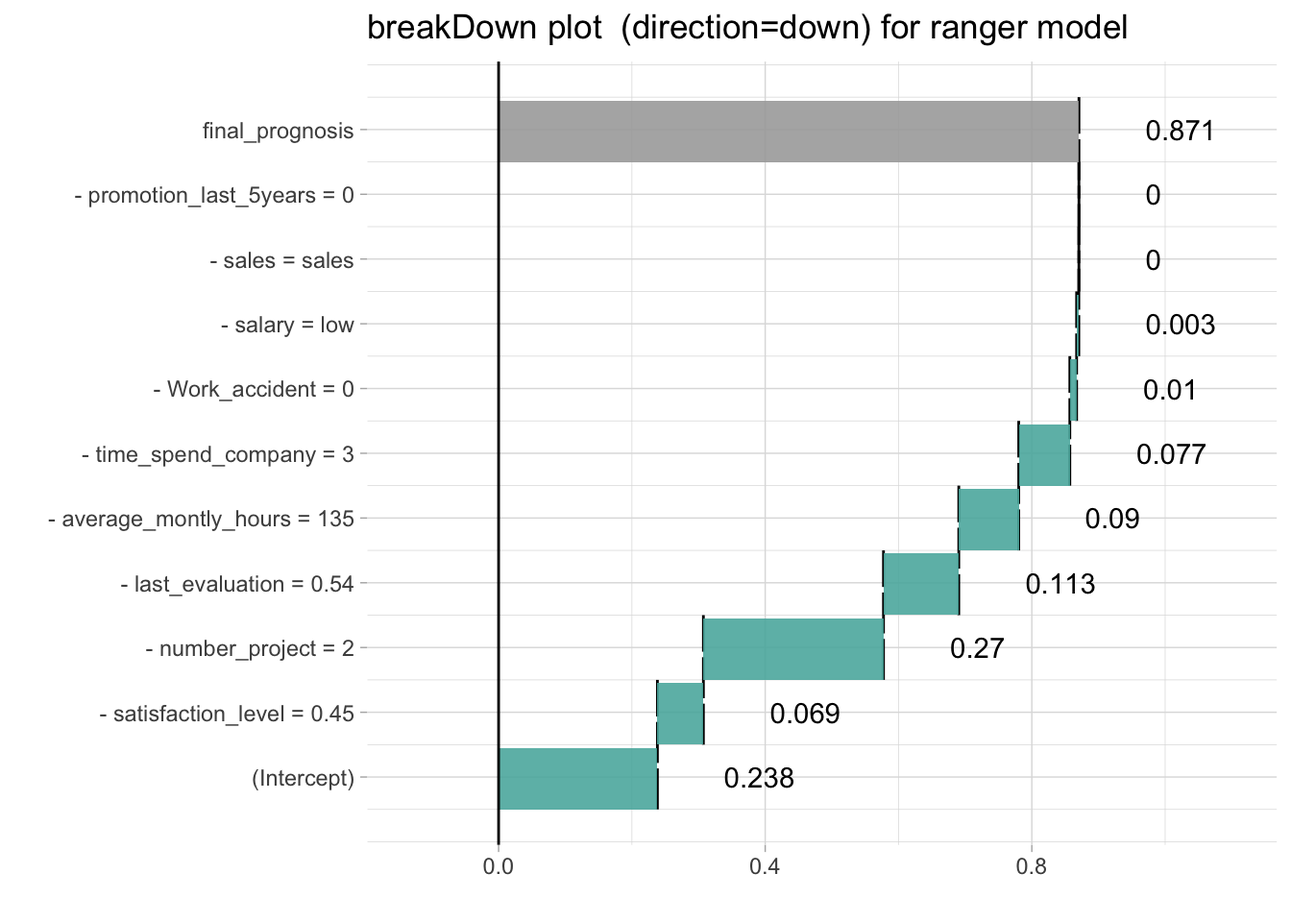
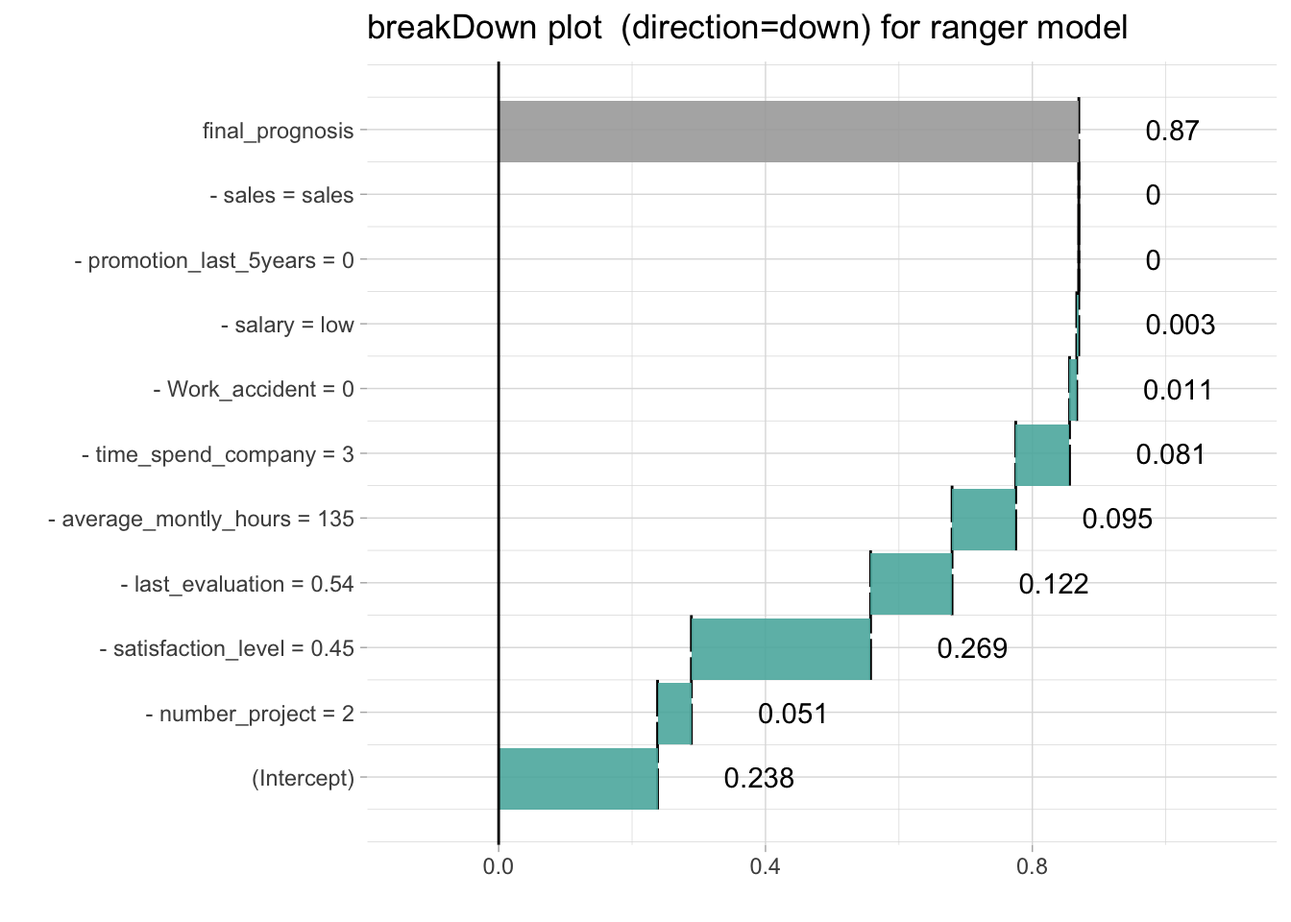
updated website and documentation

diff --git a/docs/articles/break_ranger.html b/docs/articles/break_ranger.html
@@ -88,7 +88,7 @@
       <h1>model agnostic breakDown plots for ranger</h1>
                         <h4 class="author">Przemyslaw Biecek</h4>
             
-            <h4 class="date">2018-03-25</h4>
+            <h4 class="date">2018-04-06</h4>
           </div>
 
     
@@ -115,7 +115,7 @@
 <a class="sourceLine" id="cb2-6" data-line-number="6"></a>
 <a class="sourceLine" id="cb2-7" data-line-number="7"><span class="kw">predict.function</span>(model, HR_data[<span class="dv">11</span>,])</a>
 <a class="sourceLine" id="cb2-8" data-line-number="8"><span class="co">#&gt;         1 </span></a>
-<a class="sourceLine" id="cb2-9" data-line-number="9"><span class="co">#&gt; 0.8706997</span></a></code></pre></div>
+<a class="sourceLine" id="cb2-9" data-line-number="9"><span class="co">#&gt; 0.8696505</span></a></code></pre></div>
 <p>But how to understand which factors drive predictions for a single observation?</p>
 <p>With the <code>breakDown</code> package!</p>
 <p>Explanations for the trees votings.</p>
@@ -127,16 +127,16 @@
 <a class="sourceLine" id="cb3-6" data-line-number="6">explain_<span class="dv">1</span></a>
 <a class="sourceLine" id="cb3-7" data-line-number="7"><span class="co">#&gt;                              contribution</span></a>
 <a class="sourceLine" id="cb3-8" data-line-number="8"><span class="co">#&gt; (Intercept)                         0.238</span></a>
-<a class="sourceLine" id="cb3-9" data-line-number="9"><span class="co">#&gt; - satisfaction_level = 0.45         0.069</span></a>
-<a class="sourceLine" id="cb3-10" data-line-number="10"><span class="co">#&gt; - number_project = 2                0.270</span></a>
-<a class="sourceLine" id="cb3-11" data-line-number="11"><span class="co">#&gt; - last_evaluation = 0.54            0.113</span></a>
-<a class="sourceLine" id="cb3-12" data-line-number="12"><span class="co">#&gt; - average_montly_hours = 135        0.090</span></a>
-<a class="sourceLine" id="cb3-13" data-line-number="13"><span class="co">#&gt; - time_spend_company = 3            0.077</span></a>
-<a class="sourceLine" id="cb3-14" data-line-number="14"><span class="co">#&gt; - Work_accident = 0                 0.010</span></a>
+<a class="sourceLine" id="cb3-9" data-line-number="9"><span class="co">#&gt; - number_project = 2                0.051</span></a>
+<a class="sourceLine" id="cb3-10" data-line-number="10"><span class="co">#&gt; - satisfaction_level = 0.45         0.269</span></a>
+<a class="sourceLine" id="cb3-11" data-line-number="11"><span class="co">#&gt; - last_evaluation = 0.54            0.122</span></a>
+<a class="sourceLine" id="cb3-12" data-line-number="12"><span class="co">#&gt; - average_montly_hours = 135        0.095</span></a>
+<a class="sourceLine" id="cb3-13" data-line-number="13"><span class="co">#&gt; - time_spend_company = 3            0.081</span></a>
+<a class="sourceLine" id="cb3-14" data-line-number="14"><span class="co">#&gt; - Work_accident = 0                 0.011</span></a>
 <a class="sourceLine" id="cb3-15" data-line-number="15"><span class="co">#&gt; - salary = low                      0.003</span></a>
-<a class="sourceLine" id="cb3-16" data-line-number="16"><span class="co">#&gt; - sales = sales                     0.000</span></a>
-<a class="sourceLine" id="cb3-17" data-line-number="17"><span class="co">#&gt; - promotion_last_5years = 0         0.000</span></a>
-<a class="sourceLine" id="cb3-18" data-line-number="18"><span class="co">#&gt; final_prognosis                     0.871</span></a>
+<a class="sourceLine" id="cb3-16" data-line-number="16"><span class="co">#&gt; - promotion_last_5years = 0         0.000</span></a>
+<a class="sourceLine" id="cb3-17" data-line-number="17"><span class="co">#&gt; - sales = sales                     0.000</span></a>
+<a class="sourceLine" id="cb3-18" data-line-number="18"><span class="co">#&gt; final_prognosis                     0.870</span></a>
 <a class="sourceLine" id="cb3-19" data-line-number="19"><span class="co">#&gt; baseline:  0</span></a>
 <a class="sourceLine" id="cb3-20" data-line-number="20"><span class="kw">plot</span>(explain_<span class="dv">1</span>) <span class="op">+</span><span class="st"> </span><span class="kw"><a href="http://www.rdocumentation.org/packages/ggplot2/topics/labs">ggtitle</a></span>(<span class="st">"breakDown plot  (direction=down) for ranger model"</span>)</a></code></pre></div>
 <p><img src="break_ranger_files/figure-html/unnamed-chunk-3-1.png" width="672"></p>
@@ -147,16 +147,16 @@
 <a class="sourceLine" id="cb4-5" data-line-number="5">explain_<span class="dv">2</span></a>
 <a class="sourceLine" id="cb4-6" data-line-number="6"><span class="co">#&gt;                              contribution</span></a>
 <a class="sourceLine" id="cb4-7" data-line-number="7"><span class="co">#&gt; (Intercept)                         0.238</span></a>
-<a class="sourceLine" id="cb4-8" data-line-number="8"><span class="co">#&gt; + satisfaction_level = 0.45         0.069</span></a>
-<a class="sourceLine" id="cb4-9" data-line-number="9"><span class="co">#&gt; + number_project = 2                0.270</span></a>
-<a class="sourceLine" id="cb4-10" data-line-number="10"><span class="co">#&gt; + last_evaluation = 0.54            0.113</span></a>
-<a class="sourceLine" id="cb4-11" data-line-number="11"><span class="co">#&gt; + average_montly_hours = 135        0.090</span></a>
-<a class="sourceLine" id="cb4-12" data-line-number="12"><span class="co">#&gt; + time_spend_company = 3            0.077</span></a>
-<a class="sourceLine" id="cb4-13" data-line-number="13"><span class="co">#&gt; + Work_accident = 0                 0.010</span></a>
+<a class="sourceLine" id="cb4-8" data-line-number="8"><span class="co">#&gt; + number_project = 2                0.051</span></a>
+<a class="sourceLine" id="cb4-9" data-line-number="9"><span class="co">#&gt; + satisfaction_level = 0.45         0.269</span></a>
+<a class="sourceLine" id="cb4-10" data-line-number="10"><span class="co">#&gt; + last_evaluation = 0.54            0.122</span></a>
+<a class="sourceLine" id="cb4-11" data-line-number="11"><span class="co">#&gt; + average_montly_hours = 135        0.095</span></a>
+<a class="sourceLine" id="cb4-12" data-line-number="12"><span class="co">#&gt; + time_spend_company = 3            0.081</span></a>
+<a class="sourceLine" id="cb4-13" data-line-number="13"><span class="co">#&gt; + Work_accident = 0                 0.011</span></a>
 <a class="sourceLine" id="cb4-14" data-line-number="14"><span class="co">#&gt; + salary = low                      0.003</span></a>
-<a class="sourceLine" id="cb4-15" data-line-number="15"><span class="co">#&gt; + sales = sales                     0.000</span></a>
-<a class="sourceLine" id="cb4-16" data-line-number="16"><span class="co">#&gt; + promotion_last_5years = 0         0.000</span></a>
-<a class="sourceLine" id="cb4-17" data-line-number="17"><span class="co">#&gt; final_prognosis                     0.871</span></a>
+<a class="sourceLine" id="cb4-15" data-line-number="15"><span class="co">#&gt; + promotion_last_5years = 0         0.000</span></a>
+<a class="sourceLine" id="cb4-16" data-line-number="16"><span class="co">#&gt; + sales = sales                     0.000</span></a>
+<a class="sourceLine" id="cb4-17" data-line-number="17"><span class="co">#&gt; final_prognosis                     0.870</span></a>
 <a class="sourceLine" id="cb4-18" data-line-number="18"><span class="co">#&gt; baseline:  0</span></a>
 <a class="sourceLine" id="cb4-19" data-line-number="19"><span class="kw">plot</span>(explain_<span class="dv">2</span>) <span class="op">+</span><span class="st"> </span><span class="kw"><a href="http://www.rdocumentation.org/packages/ggplot2/topics/labs">ggtitle</a></span>(<span class="st">"breakDown plot (direction=up) for ranger model"</span>)</a></code></pre></div>
 <p><img src="break_ranger_files/figure-html/unnamed-chunk-3-2.png" width="672"></p>

diff --git a/docs/reference/broken.glm.html b/docs/reference/broken.glm.html
@@ -162,7 +162,7 @@
 <span class='no'>new_observation</span> <span class='kw'>&lt;-</span> <span class='no'>wine</span>[<span class='fl'>1</span>,]
 <span class='no'>br</span> <span class='kw'>&lt;-</span> <span class='fu'><a href='broken.html'>broken</a></span>(<span class='no'>modelg</span>, <span class='no'>new_observation</span>)
 <span class='no'>logit</span> <span class='kw'>&lt;-</span> <span class='kw'>function</span>(<span class='no'>x</span>) <span class='fu'>exp</span>(<span class='no'>x</span>)/(<span class='fl'>1</span>+<span class='fu'>exp</span>(<span class='no'>x</span>))
-<span class='fu'>plot</span>(<span class='no'>br</span>, <span class='no'>logit</span>)</div><div class='img'><img src='broken.glm-1.png' alt='' width='700' height='432.632880098887' /></div><div class='input'>
+<span class='fu'>plot</span>(<span class='no'>br</span>, <span class='no'>logit</span>)</div><div class='img'><img src='broken.glm-5.png' alt='' width='700' height='432.632880098887' /></div><div class='input'>
 <span class='co'># example for HR_data</span>
 <span class='no'>model</span> <span class='kw'>&lt;-</span> <span class='fu'>glm</span>(<span class='no'>left</span>~<span class='no'>.</span>, <span class='kw'>data</span> <span class='kw'>=</span> <span class='no'>HR_data</span>, <span class='kw'>family</span> <span class='kw'>=</span> <span class='st'>"binomial"</span>)
 <span class='no'>explain_1</span> <span class='kw'>&lt;-</span> <span class='fu'><a href='broken.html'>broken</a></span>(<span class='no'>model</span>, <span class='no'>HR_data</span>[<span class='fl'>1</span>,])
@@ -178,7 +178,7 @@
 #&gt; promotion_last_5years = 0         0.030
 #&gt; sales = sales                     0.014
 #&gt; final_prognosis                   0.118
-#&gt; baseline:  0 </div><div class='input'><span class='fu'>plot</span>(<span class='no'>explain_1</span>)</div><div class='img'><img src='broken.glm-2.png' alt='' width='700' height='432.632880098887' /></div><div class='input'><span class='fu'>plot</span>(<span class='no'>explain_1</span>, <span class='kw'>trans</span> <span class='kw'>=</span> <span class='kw'>function</span>(<span class='no'>x</span>) <span class='fu'>exp</span>(<span class='no'>x</span>)/(<span class='fl'>1</span>+<span class='fu'>exp</span>(<span class='no'>x</span>)))</div><div class='img'><img src='broken.glm-3.png' alt='' width='700' height='432.632880098887' /></div><div class='input'>
+#&gt; baseline:  0 </div><div class='input'><span class='fu'>plot</span>(<span class='no'>explain_1</span>)</div><div class='img'><img src='broken.glm-6.png' alt='' width='700' height='432.632880098887' /></div><div class='input'><span class='fu'>plot</span>(<span class='no'>explain_1</span>, <span class='kw'>trans</span> <span class='kw'>=</span> <span class='kw'>function</span>(<span class='no'>x</span>) <span class='fu'>exp</span>(<span class='no'>x</span>)/(<span class='fl'>1</span>+<span class='fu'>exp</span>(<span class='no'>x</span>)))</div><div class='img'><img src='broken.glm-7.png' alt='' width='700' height='432.632880098887' /></div><div class='input'>
 <span class='no'>explain_2</span> <span class='kw'>&lt;-</span> <span class='fu'><a href='broken.html'>broken</a></span>(<span class='no'>model</span>, <span class='no'>HR_data</span>[<span class='fl'>1</span>,], <span class='kw'>predict.function</span> <span class='kw'>=</span> <span class='no'>betas</span>)
 <span class='no'>explain_2</span></div><div class='output co'>#&gt;                            contribution
 #&gt; (Intercept)                      -1.476
@@ -192,7 +192,7 @@
 #&gt; Work_accident = 0                 0.000
 #&gt; promotion_last_5years = 0         0.000
 #&gt; final_prognosis                   0.118
-#&gt; baseline:  0 </div><div class='input'><span class='fu'>plot</span>(<span class='no'>explain_2</span>, <span class='kw'>trans</span> <span class='kw'>=</span> <span class='kw'>function</span>(<span class='no'>x</span>) <span class='fu'>exp</span>(<span class='no'>x</span>)/(<span class='fl'>1</span>+<span class='fu'>exp</span>(<span class='no'>x</span>)))</div><div class='img'><img src='broken.glm-4.png' alt='' width='700' height='432.632880098887' /></div></pre>
+#&gt; baseline:  0 </div><div class='input'><span class='fu'>plot</span>(<span class='no'>explain_2</span>, <span class='kw'>trans</span> <span class='kw'>=</span> <span class='kw'>function</span>(<span class='no'>x</span>) <span class='fu'>exp</span>(<span class='no'>x</span>)/(<span class='fl'>1</span>+<span class='fu'>exp</span>(<span class='no'>x</span>)))</div><div class='img'><img src='broken.glm-8.png' alt='' width='700' height='432.632880098887' /></div></pre>
   </div>
   <div class="col-md-3 hidden-xs hidden-sm" id="sidebar">
     <h2>Contents</h2>

diff --git a/docs/reference/broken.default.html b/docs/reference/broken.default.html
@@ -162,14 +162,9 @@
 
     <h2 class="hasAnchor" id="examples"><a class="anchor" href="#examples"></a>Examples</h2>
     <pre class="examples"><div class='input'><span class='fu'>library</span>(<span class='no'>breakDown</span>)
-<span class='fu'>library</span>(<span class='no'>randomForest</span>)</div><div class='output co'>#&gt; <span class='message'>randomForest 4.6-12</span></div><div class='output co'>#&gt; <span class='message'>Type rfNews() to see new features/changes/bug fixes.</span></div><div class='output co'>#&gt; <span class='message'></span>
-#&gt; <span class='message'>Attaching package: ‘randomForest’</span></div><div class='output co'>#&gt; <span class='message'>The following object is masked from ‘package:breakDown’:</span>
-#&gt; <span class='message'></span>
-#&gt; <span class='message'>    margin</span></div><div class='input'><span class='fu'>library</span>(<span class='no'>ggplot2</span>)</div><div class='output co'>#&gt; <span class='message'>Want to understand how all the pieces fit together? Buy the ggplot2</span>
-#&gt; <span class='message'>book: http://ggplot2.org/book/</span></div><div class='output co'>#&gt; <span class='message'></span>
-#&gt; <span class='message'>Attaching package: ‘ggplot2’</span></div><div class='output co'>#&gt; <span class='message'>The following object is masked from ‘package:randomForest’:</span>
-#&gt; <span class='message'></span>
-#&gt; <span class='message'>    margin</span></div><div class='input'><span class='fu'>set.seed</span>(<span class='fl'>1313</span>)
+<span class='fu'>library</span>(<span class='no'>randomForest</span>)
+<span class='fu'>library</span>(<span class='no'>ggplot2</span>)
+<span class='fu'>set.seed</span>(<span class='fl'>1313</span>)
 <span class='no'>model</span> <span class='kw'>&lt;-</span> <span class='fu'><a href='http://www.rdocumentation.org/packages/randomForest/topics/randomForest'>randomForest</a></span>(<span class='fu'>factor</span>(<span class='no'>left</span>)~<span class='no'>.</span>, <span class='kw'>data</span> <span class='kw'>=</span> <span class='no'>HR_data</span>, <span class='kw'>family</span> <span class='kw'>=</span> <span class='st'>"binomial"</span>, <span class='kw'>maxnodes</span> <span class='kw'>=</span> <span class='fl'>5</span>)
 <span class='no'>predict.function</span> <span class='kw'>&lt;-</span> <span class='kw'>function</span>(<span class='no'>model</span>, <span class='no'>new_observation</span>)
       <span class='fu'>predict</span>(<span class='no'>model</span>, <span class='no'>new_observation</span>, <span class='kw'>type</span><span class='kw'>=</span><span class='st'>"prob"</span>)[,<span class='fl'>2</span>]
@@ -187,7 +182,7 @@
 #&gt; - sales = sales                     0.000
 #&gt; - promotion_last_5years = 0         0.000
 #&gt; final_prognosis                     0.888
-#&gt; baseline:  0 </div><div class='input'><span class='fu'>plot</span>(<span class='no'>explain_1</span>) + <span class='fu'><a href='http://www.rdocumentation.org/packages/ggplot2/topics/labs'>ggtitle</a></span>(<span class='st'>"breakDown plot (direction=down) for randomForest model"</span>)</div><div class='img'><img src='broken.default-1.png' alt='' width='700' height='432.632880098887' /></div><div class='input'>
+#&gt; baseline:  0 </div><div class='input'><span class='fu'>plot</span>(<span class='no'>explain_1</span>) + <span class='fu'><a href='http://www.rdocumentation.org/packages/ggplot2/topics/labs'>ggtitle</a></span>(<span class='st'>"breakDown plot (direction=down) for randomForest model"</span>)</div><div class='img'><img src='broken.default-2.png' alt='' width='700' height='432.632880098887' /></div><div class='input'>
 </div></pre>
   </div>
   <div class="col-md-3 hidden-xs hidden-sm" id="sidebar">

diff --git a/docs/index.html b/docs/index.html
@@ -86,13 +86,24 @@
   <div class="contents col-md-9">
     
 
-<section class="level1"><div class="page-header"><h1>breakDown</h1></div>
-<p>Modified Waterfall plots for glm, lm and randomForest</p>
-<section class="level2"><h2>Install from GitHub</h2>
+<div class="section level1">
+<div class="page-header"><h1>Break Down Plots: Model Agnostic Explainers for Individual Predictions</h1></div>
+<p><code>breakDown</code> package decomposes individual predictions into parts attributed to particular variables. See <a href="https://pbiecek.github.io/breakDown/articles/break_caret.html">vigniettes</a> for more examples.</p>
+<p>Bookdown website for <code>breakDown</code> package: <a href="https://pbiecek.github.io/breakDown/" class="uri">https://pbiecek.github.io/breakDown/</a></p>
+<p>Methodology behind prediction explainers implemented in <code>breakDown</code> and <code>live</code>: <a href="https://arxiv.org/abs/1804.01955" class="uri">https://arxiv.org/abs/1804.01955</a></p>
+<div class="section level2">
+<h2>How to install</h2>
+<p>Install from GitHub</p>
 <pre><code><a href="http://www.rdocumentation.org/packages/devtools/topics/install_github">devtools::install_github("pbiecek/breakDown")</a></code></pre>
-</section><section class="level2"><h2>Cheatsheets</h2>
+<p>Install from CRAN</p>
+<pre><code>install.packages("breakDown")</code></pre>
+</div>
+<div class="section level2">
+<h2>Cheatsheets</h2>
 <p><img src="https://raw.githubusercontent.com/pbiecek/breakDown/master/cheatsheets/breakDownCheatsheet.png" alt="Cheatsheet"></p>
-</section><section class="level2"><h2>Example for lm model</h2>
+</div>
+<div class="section level2">
+<h2>Example for lm model</h2>
 <p>Get data with <a href="https://github.com/pbiecek/archivist">archivist</a></p>
 <ul>
 <li>broken object: <code><a href="http://www.rdocumentation.org/packages/archivist/topics/aread">archivist::aread("pbiecek/breakDown/arepo/81c5be568d4db2ec795dedcb5d7d6599")</a></code>
@@ -134,8 +145,10 @@ br
 ## final_prognosis                 5.60000
 plot(br)</code></pre>
 <p><img src="misc/broken_lm.png" alt="plot for lm model"></p>
-</section></section>
 </div>
+</div>
+
+  </div>
 
   <div class="col-md-3" id="sidebar">
   	<div class="sidebar-logo">
@@ -152,6 +165,10 @@ plot(br)</code></pre>
 </ul>
 <h2>License</h2>
 <p><a href="https://www.r-project.org/Licenses/GPL-2">GPL-2</a></p>
+<h2>Citation</h2>
+<ul class="list-unstyled">
+<li><a href="authors.html">Citing breakDown</a></li>
+</ul>
 <h2>Developers</h2>
 <ul class="list-unstyled">
 <li>Przemyslaw Biecek <br><small class="roles"> Author, maintainer </small> </li>
@@ -159,6 +176,9 @@ plot(br)</code></pre>
 <h2>Dev status</h2>
 <ul class="list-unstyled">
 <li><a href="https://cran.r-project.org/package=breakDown"><img src="http://www.r-pkg.org/badges/version/breakDown" alt="CRAN_Status_Badge"></a></li>
+<li><a href="http://cran.rstudio.com/package=breakDown"><img src="http://cranlogs.r-pkg.org/badges/breakDown" alt="Downloads"></a></li>
+<li><a href="http://cranlogs.r-pkg.org/badges/grand-total/breakDown"><img src="http://cranlogs.r-pkg.org/badges/grand-total/breakDown?color=orange" alt="Total Downloads"></a></li>
+<li><a href="https://travis-ci.org/pbiecek/breakDown"><img src="https://api.travis-ci.org/pbiecek/breakDown.png" alt="Build Status"></a></li>
 <li><a href="https://github.com/pbiecek/breakDown/pulls"><img src="http://githubbadges.herokuapp.com/pbiecek/breakDown/pulls.svg?style=flat" alt="Pending Pull-Requests"></a></li>
 <li><a href="https://github.com/pbiecek/breakDown/issues"><img src="http://githubbadges.herokuapp.com/pbiecek/breakDown/issues.svg" alt="Github Issues"></a></li>
 </ul>

diff --git a/docs/reference/broken.lm.html b/docs/reference/broken.lm.html
@@ -156,7 +156,7 @@
     <pre class="examples"><div class='input'><span class='no'>model</span> <span class='kw'>&lt;-</span> <span class='fu'>lm</span>(<span class='no'>Sepal.Length</span>~<span class='no'>.</span>, <span class='kw'>data</span><span class='kw'>=</span><span class='no'>iris</span>)
 <span class='no'>new_observation</span> <span class='kw'>&lt;-</span> <span class='no'>iris</span>[<span class='fl'>1</span>,]
 <span class='no'>br</span> <span class='kw'>&lt;-</span> <span class='fu'><a href='broken.html'>broken</a></span>(<span class='no'>model</span>, <span class='no'>new_observation</span>)
-<span class='fu'>plot</span>(<span class='no'>br</span>)</div><div class='img'><img src='broken.lm-1.png' alt='' width='700' height='432.632880098887' /></div><div class='input'>
+<span class='fu'>plot</span>(<span class='no'>br</span>)</div><div class='img'><img src='broken.lm-4.png' alt='' width='700' height='432.632880098887' /></div><div class='input'>
 <span class='co'># works for interactions as well</span>
 <span class='no'>model</span> <span class='kw'>&lt;-</span> <span class='fu'>lm</span>(<span class='no'>Sepal.Length</span> ~ <span class='no'>Petal.Width</span>*<span class='no'>Species</span>, <span class='kw'>data</span> <span class='kw'>=</span> <span class='no'>iris</span>)
 <span class='fu'>summary</span>(<span class='no'>model</span>)</div><div class='output co'>#&gt; 
@@ -190,7 +190,7 @@
 #&gt; Species = setosa                        0.080
 #&gt; Petal.Width:Species = 0.2:setosa       -0.031
 #&gt; final_prognosis                         4.963
-#&gt; baseline:  0 </div><div class='input'><span class='fu'>plot</span>(<span class='no'>br</span>)</div><div class='img'><img src='broken.lm-2.png' alt='' width='700' height='432.632880098887' /></div><div class='input'>
+#&gt; baseline:  0 </div><div class='input'><span class='fu'>plot</span>(<span class='no'>br</span>)</div><div class='img'><img src='broken.lm-5.png' alt='' width='700' height='432.632880098887' /></div><div class='input'>
 <span class='no'>br2</span> <span class='kw'>&lt;-</span> <span class='fu'><a href='broken.html'>broken</a></span>(<span class='no'>model</span>, <span class='no'>new_observation</span>, <span class='kw'>predict.function</span> <span class='kw'>=</span> <span class='no'>betas</span>)
 <span class='no'>br2</span></div><div class='output co'>#&gt;                                  contribution
 #&gt; (Intercept)                             4.777
@@ -198,7 +198,7 @@
 #&gt; Species = setosa                        0.000
 #&gt; Petal.Width:Species = 0.2:setosa        0.000
 #&gt; final_prognosis                         4.963
-#&gt; baseline:  0 </div><div class='input'><span class='fu'>plot</span>(<span class='no'>br2</span>)</div><div class='img'><img src='broken.lm-3.png' alt='' width='700' height='432.632880098887' /></div></pre>
+#&gt; baseline:  0 </div><div class='input'><span class='fu'>plot</span>(<span class='no'>br2</span>)</div><div class='img'><img src='broken.lm-6.png' alt='' width='700' height='432.632880098887' /></div></pre>
   </div>
   <div class="col-md-3 hidden-xs hidden-sm" id="sidebar">
     <h2>Contents</h2>

diff --git a/docs/news/index.html b/docs/news/index.html
@@ -116,6 +116,55 @@
     </div>
 
     <div class="contents">
+    <div class="section level2">
+<h2>breakDown 0.1.5</h2>
+<ul>
+<li>small changes in <code>broken.default</code> to make it work with <code>xgboost</code> and other non <code>data.frame</code> data</li>
+<li>
+<code>broken.lm</code> supports unnormalized coefficients (thanks to Joseph Larmarange) just add <code>predict.function = betas</code> <a href="https://github.com/pbiecek/breakDown/issues/9">#9</a>
+</li>
+</ul>
+</div>
+    <div class="section level2">
+<h2>breakDown 0.1.4</h2>
+<ul>
+<li>
+<code>broken.default</code> is now model agnostic!</li>
+<li>
+<code>broken.ranger</code> is removed since <code>broken.default</code> is much better</li>
+<li>small fixes in <code>print</code> and <code>plot</code> functions, a new vigniette for model agnostic plots</li>
+</ul>
+</div>
+    <div class="section level2">
+<h2>breakDown 0.1.3</h2>
+<ul>
+<li>small fixes and submission to CRAN</li>
+</ul>
+</div>
+    <div class="section level2">
+<h2>breakDown 0.1.2</h2>
+<ul>
+<li>
+<code>broken.lm</code> and <code>broken.glm</code> are now supporting interactions (<a href="https://github.com/pbiecek/breakDown/issues/7">#7</a>)</li>
+<li>
+<code>print()</code> and <code>plot()</code> functions are now handling different options for rounding via additional arguments <code>digits = 3</code>, <code>rounding_function = round</code> (<a href="https://github.com/pbiecek/breakDown/issues/8">#8</a>)</li>
+</ul>
+</div>
+    <div class="section level2">
+<h2>breakDown 0.1.1</h2>
+<ul>
+<li>the <code>baseline</code> argument is added to the <code>broken</code> function (<a href="https://github.com/pbiecek/breakDown/issues/1">#1</a>)</li>
+<li>vignettes for lm and glm models are added (<a href="https://github.com/pbiecek/breakDown/issues/2">#2</a>)</li>
+</ul>
+</div>
+    <div class="section level2">
+<h2>breakDown 0.1</h2>
+<ul>
+<li>waterfall like plots and support for lm models</li>
+<li>waterfall like plots and support for glm models</li>
+<li>HR dataset added</li>
+</ul>
+</div>
     </div>
   </div>
 
@@ -123,6 +172,12 @@
     <div id="tocnav">
       <h2>Contents</h2>
       <ul class="nav nav-pills nav-stacked contents-mi2">
+        <li><a href="#NA">0.1.5</a></li>
+        <li><a href="#NA">0.1.4</a></li>
+        <li><a href="#NA">0.1.3</a></li>
+        <li><a href="#NA">0.1.2</a></li>
+        <li><a href="#NA">0.1.1</a></li>
+        <li><a href="#NA">0.1</a></li>
       </ul>
     </div>
   </div>

diff --git a/docs/articles/break_svm.html b/docs/articles/break_svm.html
@@ -88,7 +88,7 @@
       <h1>How to use breakDown package for SVM models</h1>
                         <h4 class="author">Przemyslaw Biecek</h4>
             
-            <h4 class="date">2018-03-25</h4>
+            <h4 class="date">2018-04-06</h4>
           </div>
 
     
@@ -106,12 +106,12 @@
 <a class="sourceLine" id="cb1-9" data-line-number="9"><span class="co">#&gt;  parameter : epsilon = 0.1  cost C = 1 </span></a>
 <a class="sourceLine" id="cb1-10" data-line-number="10"><span class="co">#&gt; </span></a>
 <a class="sourceLine" id="cb1-11" data-line-number="11"><span class="co">#&gt; Gaussian Radial Basis kernel function. </span></a>
-<a class="sourceLine" id="cb1-12" data-line-number="12"><span class="co">#&gt;  Hyperparameter : sigma =  0.0799056408205615 </span></a>
+<a class="sourceLine" id="cb1-12" data-line-number="12"><span class="co">#&gt;  Hyperparameter : sigma =  0.080027909797691 </span></a>
 <a class="sourceLine" id="cb1-13" data-line-number="13"><span class="co">#&gt; </span></a>
-<a class="sourceLine" id="cb1-14" data-line-number="14"><span class="co">#&gt; Number of Support Vectors : 4194 </span></a>
+<a class="sourceLine" id="cb1-14" data-line-number="14"><span class="co">#&gt; Number of Support Vectors : 4195 </span></a>
 <a class="sourceLine" id="cb1-15" data-line-number="15"><span class="co">#&gt; </span></a>
-<a class="sourceLine" id="cb1-16" data-line-number="16"><span class="co">#&gt; Objective Function Value : -2273.621 </span></a>
-<a class="sourceLine" id="cb1-17" data-line-number="17"><span class="co">#&gt; Training error : 0.524513</span></a>
+<a class="sourceLine" id="cb1-16" data-line-number="16"><span class="co">#&gt; Objective Function Value : -2273.206 </span></a>
+<a class="sourceLine" id="cb1-17" data-line-number="17"><span class="co">#&gt; Training error : 0.52435</span></a>
 <a class="sourceLine" id="cb1-18" data-line-number="18"></a>
 <a class="sourceLine" id="cb1-19" data-line-number="19"><span class="co"># or with the e1071:::svm</span></a>
 <a class="sourceLine" id="cb1-20" data-line-number="20"></a>

diff --git a/docs/authors.html b/docs/authors.html
@@ -6,7 +6,7 @@
 <meta http-equiv="X-UA-Compatible" content="IE=edge">
 <meta name="viewport" content="width=device-width, initial-scale=1.0">
 
-<title>Authors • breakDown</title>
+<title>Citation and Authors • breakDown</title>
 
 <!-- jquery -->
 <script src="https://code.jquery.com/jquery-3.1.0.min.js" integrity="sha384-nrOSfDHtoPMzJHjVTdCopGqIqeYETSXhZDFyniQ8ZHcVy08QesyHcnOUpMpqnmWq" crossorigin="anonymous"></script>
@@ -37,7 +37,7 @@
   </head>
 
   <body>
-    <div class="container template-authors">
+    <div class="container template-citation-authors">
       <header>
       <div class="navbar navbar-default navbar-fixed-top navbar-mi2" role="navigation">
   <div class="container">
@@ -109,10 +109,32 @@
       </header>
 
       <div class="row">
-  <div class="contents col-md-12">
+  <div class="contents col-md-9">
+
+    <div class="page-header">
+      <h1>Citation</h1>
+    </div>
+
+    <p>Staniak M and Biecek P (2018).
+&ldquo;Explanations of Model Predictions with live and breakDown Packages.&rdquo;
+<em>ArXiv e-prints</em>.
+1804.01955, <a href="https://arxiv.org/abs/1804.01955">https://arxiv.org/abs/1804.01955</a>. 
+</p>
+    <pre>@Article{,
+  title = {Explanations of Model Predictions with {live} and {breakDown} Packages},
+  author = {Mateusz Staniak and Przemyslaw Biecek},
+  journal = {ArXiv e-prints},
+  archiveprefix = {arXiv},
+  eprint = {1804.01955},
+  primaryclass = {stat.ML},
+  year = {2018},
+  month = {Apr},
+  url = {https://arxiv.org/abs/1804.01955},
+}</pre>
     <div class="page-header">
       <h1>Authors</h1>
     </div>
+
     <ul class="list-unstyled">
       <li>
         <p><strong>Przemyslaw Biecek</strong>. Author, maintainer.

diff --git a/docs/articles/break_xgboost.html b/docs/articles/break_xgboost.html
@@ -88,7 +88,7 @@
       <h1>How to use breakDown package for models created with xgboost</h1>
                         <h4 class="author">Przemyslaw Biecek</h4>
             
-            <h4 class="date">2018-03-25</h4>
+            <h4 class="date">2018-04-06</h4>
           </div>
 
     

diff --git a/docs/articles/break_caret.html b/docs/articles/break_caret.html
@@ -88,7 +88,7 @@
       <h1>How to use breakDown package for models created with caret</h1>
                         <h4 class="author">Przemyslaw Biecek</h4>
             
-            <h4 class="date">2018-03-25</h4>
+            <h4 class="date">2018-04-06</h4>
           </div>
 
     

diff --git a/docs/articles/break_glm.html b/docs/articles/break_glm.html
@@ -88,7 +88,7 @@
       <h1>breakDown plots for the generalised linear models</h1>
                         <h4 class="author">Przemyslaw Biecek</h4>
             
-            <h4 class="date">2018-03-25</h4>
+            <h4 class="date">2018-04-06</h4>
           </div>
 
     

diff --git a/docs/articles/break_randomForest.html b/docs/articles/break_randomForest.html
@@ -88,7 +88,7 @@
       <h1>model agnostic breakDown plots for randomForest</h1>
                         <h4 class="author">Przemyslaw Biecek</h4>
             
-            <h4 class="date">2018-03-25</h4>
+            <h4 class="date">2018-04-06</h4>
           </div>
 
     
